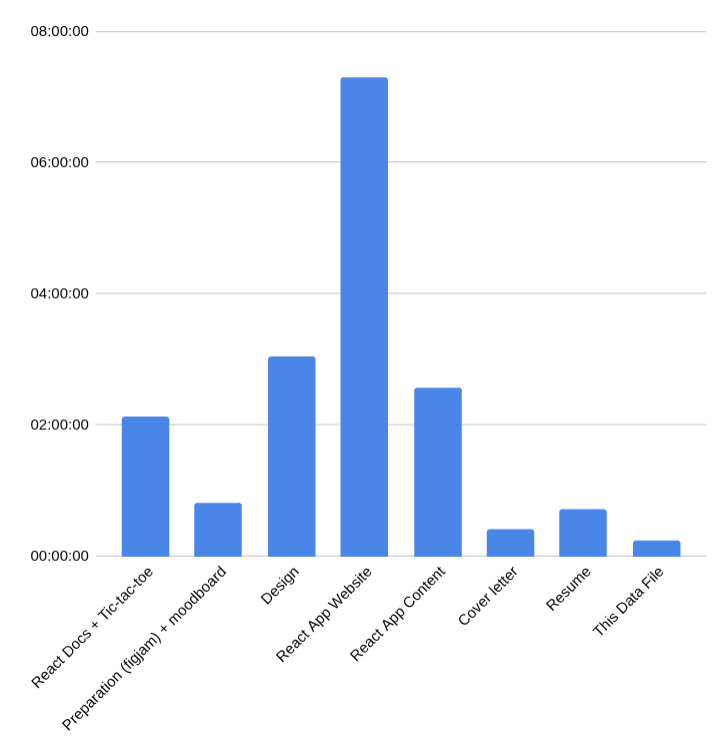
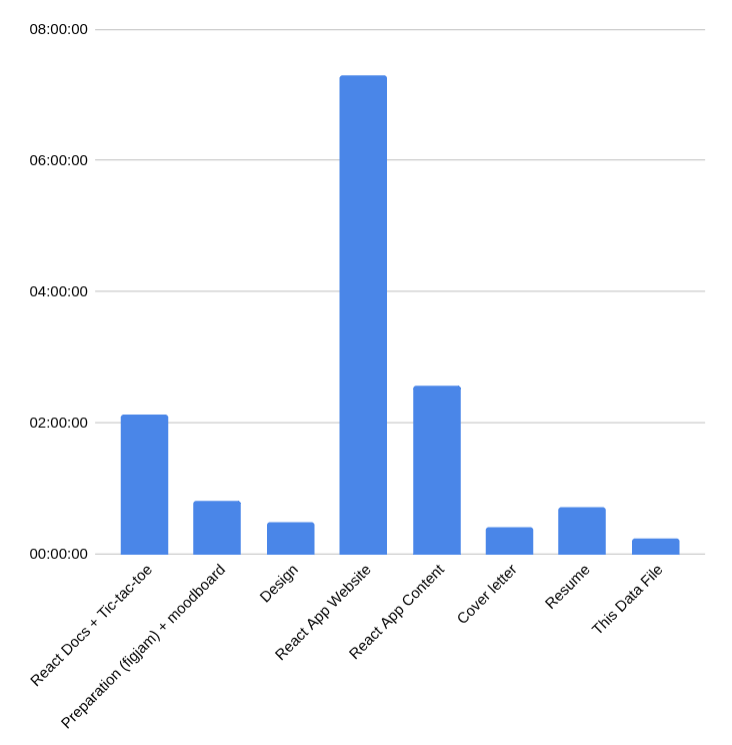
content - update behind the scenes

diff --git a/src/content/how-long-it-took.md b/src/content/how-long-it-took.md
@@ -8,18 +8,18 @@ Here's the complete time breakdown for this project:
 | -------------------------------- | ------------ |
 | React Docs + Tic-tac-toe         | 02:07:29     |
 | Preparation (figjam) + moodboard | 00:48:36     |
-| Design                           | 03:02:53     |
+| Design                           | 00:28:52     |
 | React App Website                | 07:17:20     |
 | React App Content                | 02:34:01     |
 | Cover letter                     | 00:24:45     |
 | Resume                           | 00:42:49     |
 | This Data File                   | 00:14:22     |
-| **Total**                        | **17:12:15** |
+| **Total**                        | **14:38:14** |
 
 ---
 
 ### Breakdown Notes
 
-The majority of the time was spent building the React app itself (7+ hours), followed by design work (3 hours) and content creation (2.5 hours). Learning React fundamentals through the docs and tutorial took about 2 hours.
+The majority of the time was spent building the React app itself (7+ hours), followed by content creation (2.5 hours) and learning React fundamentals (2+ hours).
 
-All in all, this project took just over 17 hours from start to finish! Over the course of 2.5 weeks 🚀
+All in all, this project took just under 15 hours from start to finish! Over the course of 2.5 weeks 🚀
